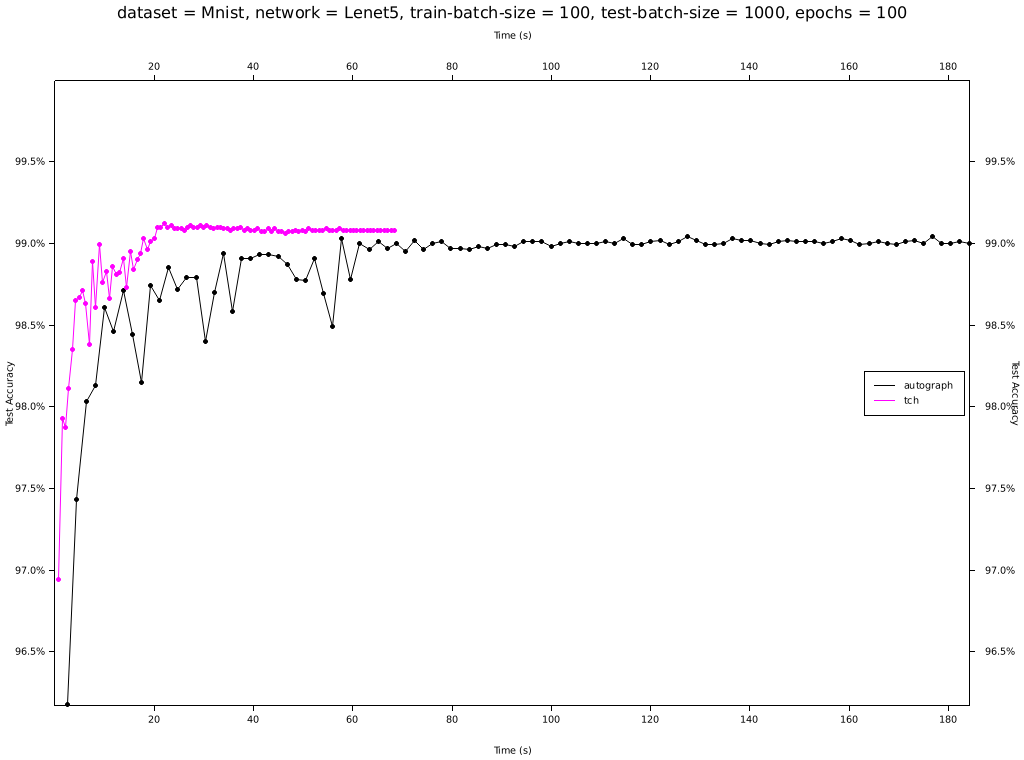
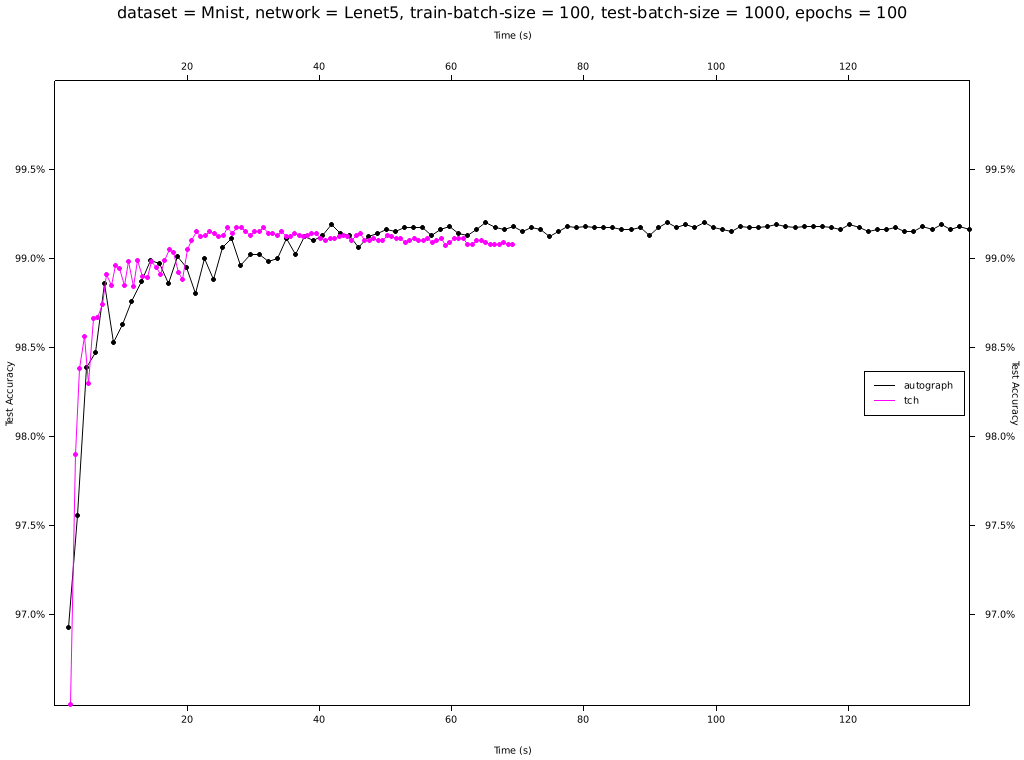
Updated benchmarks / readme.

diff --git a/README.md b/README.md
@@ -279,47 +279,53 @@ AUTOGRAPH_PROFILE=1 cargo +nightly run --feature profile
 ```
 Will create a file "autograph_profile_summary.txt" like this:
 ```
-+---------------------------------+------------------------------------+---------+-------------+-----------+------------+
-| Module                          | Entry                              | Time %  | Invocations | Mean Time | Total Time |
-+=================================+====================================+=========+=============+===========+============+
-| gemm_f32                        | main                               | 84.75 % | 61103787    | 145.00ns  | 8.94s      |
-+---------------------------------+------------------------------------+---------+-------------+-----------+------------+
-| core                            | kernel::im2col_2d_convolution_f32  | 8.39 %  | 1306434     | 677.00ns  | 885.21ms   |
-+---------------------------------+------------------------------------+---------+-------------+-----------+------------+
-| core                            | pool::max_pool_2d_backward_f32     | 3.58 %  | 2134342     | 176.00ns  | 377.61ms   |
-+---------------------------------+------------------------------------+---------+-------------+-----------+------------+
-| core                            | reorder::as_standard_layout_6d_u32 | 0.97 %  | 717356446   | 0.00ns    | 102.39ms   |
-+---------------------------------+------------------------------------+---------+-------------+-----------+------------+
-| core                            | fill::fill_u32                     | 0.69 %  | 1141592100  | 0.00ns    | 73.20ms    |
-+---------------------------------+------------------------------------+---------+-------------+-----------+------------+
-| reduce_sum_final_f32            | main                               | 0.32 %  | 50226       | 661.00ns  | 33.25ms    |
-+---------------------------------+------------------------------------+---------+-------------+-----------+------------+
-| core                            | pool::max_pool_indices_2d_f32      | 0.31 %  | 10233126    | 3.00ns    | 33.04ms    |
-+---------------------------------+------------------------------------+---------+-------------+-----------+------------+
-| core                            | activation::relu_backward_f32      | 0.31 %  | 351834488   | 0.00ns    | 32.89ms    |
-+---------------------------------+------------------------------------+---------+-------------+-----------+------------+
-| core                            | activation::relu_f32               | 0.25 %  | 398674888   | 0.00ns    | 26.86ms    |
-+---------------------------------+------------------------------------+---------+-------------+-----------+------------+
-| scaled_add_f32                  | main                               | 0.14 %  | 33371028    | 0.00ns    | 14.45ms    |
-+---------------------------------+------------------------------------+---------+-------------+-----------+------------+
-| cross_entropy_loss_f32_64       | main                               | 0.06 %  | 107890      | 60.00ns   | 6.53ms     |
-+---------------------------------+------------------------------------+---------+-------------+-----------+------------+
-| bias_backward_f32               | main                               | 0.05 %  | 49566       | 111.00ns  | 5.53ms     |
-+---------------------------------+------------------------------------+---------+-------------+-----------+------------+
-| core                            | cast::scale_u8_f32                 | 0.05 %  | 16717490    | 0.00ns    | 5.50ms     |
-+---------------------------------+------------------------------------+---------+-------------+-----------+------------+
-| core                            | pool::max_pool_2d_f32              | 0.04 %  | 1360260     | 3.00ns    | 4.25ms     |
-+---------------------------------+------------------------------------+---------+-------------+-----------+------------+
-| reduce_argmax_final_f32         | main                               | 0.03 %  | 107890      | 24.00ns   | 2.66ms     |
-+---------------------------------+------------------------------------+---------+-------------+-----------+------------+
-| one_hot_u8_f32                  | main                               | 0.02 %  | 107890      | 22.00ns   | 2.39ms     |
-+---------------------------------+------------------------------------+---------+-------------+-----------+------------+
-| accuracy_u8                     | main                               | 0.02 %  | 107890      | 19.00ns   | 2.10ms     |
-+---------------------------------+------------------------------------+---------+-------------+-----------+------------+
-| cross_entropy_loss_backward_f32 | main                               | 0.02 %  | 97630       | 18.00ns   | 1.78ms     |
-+---------------------------------+------------------------------------+---------+-------------+-----------+------------+
-| scaled_cast_f32_f32             | main                               | 0.00 %  | 132         | 31.00ns   | 4.10µs     |
-+---------------------------------+------------------------------------+---------+-------------+-----------+------------+
++-------------------------+----------------------------------------------+---------+-------------+-----------+------------+
+| Module                  | Entry                                        | Time %  | Invocations | Mean Time | Total Time |
++=========================+==============================================+=========+=============+===========+============+
+| core                    | linalg::gemm_f32_splitk256_unr16_mica1_micb1 | 22.19 % | 150485504   | 1.00ns    | 272.77ms   |
++-------------------------+----------------------------------------------+---------+-------------+-----------+------------+
+| core                    | linalg::gemm_f32_unr16_mica1_micb1           | 18.87 % | 768897792   | 0.00ns    | 231.94ms   |
++-------------------------+----------------------------------------------+---------+-------------+-----------+------------+
+| core                    | kernel::im2col_2d_convolution_f32            | 17.24 % | 143104000   | 1.00ns    | 211.92ms   |
++-------------------------+----------------------------------------------+---------+-------------+-----------+------------+
+| core                    | linalg::gemm_f32_unr8_mica4_micb4            | 15.11 % | 55810560    | 3.00ns    | 185.71ms   |
++-------------------------+----------------------------------------------+---------+-------------+-----------+------------+
+| core                    | kernel::col2im_2d_convolution_f32            | 5.24 %  | 48941568    | 1.00ns    | 64.35ms    |
++-------------------------+----------------------------------------------+---------+-------------+-----------+------------+
+| core                    | reorder::as_standard_layout_4d_u32           | 4.17 %  | 500518400   | 0.00ns    | 51.23ms    |
++-------------------------+----------------------------------------------+---------+-------------+-----------+------------+
+| core                    | fill::fill_u32x2                             | 3.83 %  | 550491136   | 0.00ns    | 47.05ms    |
++-------------------------+----------------------------------------------+---------+-------------+-----------+------------+
+| core                    | pool::max_pool_indices_2d_f32                | 2.35 %  | 121638400   | 0.00ns    | 28.94ms    |
++-------------------------+----------------------------------------------+---------+-------------+-----------+------------+
+| core                    | activation::relu_backward_f32                | 2.35 %  | 261534720   | 0.00ns    | 28.87ms    |
++-------------------------+----------------------------------------------+---------+-------------+-----------+------------+
+| core                    | pool::max_pool_2d_backward_f32               | 1.95 %  | 314828800   | 0.00ns    | 23.99ms    |
++-------------------------+----------------------------------------------+---------+-------------+-----------+------------+
+| reduce_sum_final_f32    | main                                         | 1.92 %  | 35776       | 661.00ns  | 23.65ms    |
++-------------------------+----------------------------------------------+---------+-------------+-----------+------------+
+| core                    | activation::relu_f32                         | 1.37 %  | 261880320   | 0.00ns    | 16.87ms    |
++-------------------------+----------------------------------------------+---------+-------------+-----------+------------+
+| scaled_add_f32          | main                                         | 0.88 %  | 24819840    | 0.00ns    | 10.87ms    |
++-------------------------+----------------------------------------------+---------+-------------+-----------+------------+
+| core                    | criterion::cross_entropy_loss_backward_f32   | 0.52 %  | 71552       | 88.00ns   | 6.33ms     |
++-------------------------+----------------------------------------------+---------+-------------+-----------+------------+
+| core                    | cast::scale_u8_f32                           | 0.45 %  | 43825600    | 0.00ns    | 5.50ms     |
++-------------------------+----------------------------------------------+---------+-------------+-----------+------------+
+| core                    | criterion::cross_entropy_loss_f32            | 0.40 %  | 71552       | 68.00ns   | 4.94ms     |
++-------------------------+----------------------------------------------+---------+-------------+-----------+------------+
+| bias_backward_f32       | main                                         | 0.35 %  | 35776       | 120.00ns  | 4.32ms     |
++-------------------------+----------------------------------------------+---------+-------------+-----------+------------+
+| core                    | linalg::c_beta_f32                           | 0.24 %  | 1466624     | 2.00ns    | 2.94ms     |
++-------------------------+----------------------------------------------+---------+-------------+-----------+------------+
+| reduce_argmax_final_f32 | main                                         | 0.17 %  | 71552       | 29.00ns   | 2.08ms     |
++-------------------------+----------------------------------------------+---------+-------------+-----------+------------+
+| one_hot_u8_f32          | main                                         | 0.15 %  | 71552       | 25.00ns   | 1.81ms     |
++-------------------------+----------------------------------------------+---------+-------------+-----------+------------+
+| core                    | fill::fill_u32                               | 0.13 %  | 143360      | 10.00ns   | 1.57ms     |
++-------------------------+----------------------------------------------+---------+-------------+-----------+------------+
+| accuracy_u8             | main                                         | 0.12 %  | 71552       | 20.00ns   | 1.44ms     |
++-------------------------+----------------------------------------------+---------+-------------+-----------+------------+
 ```
 ### Note
 Specify the profile feature for autograph if it is a dependency as `autograph/profile`.

diff --git a/benchmarks/neural-network/README.md b/benchmarks/neural-network/README.md
@@ -31,9 +31,9 @@ NVIDIA GeForce GTX 1060 with Max-Q Design
 +-----------+------------+---------------+-----------------------+----------------------------------+
 | Library   | Best Epoch | Best Accuracy | Time To Best Accuracy | Mean Epoch Time to Best Accuracy |
 +===========+============+===============+=======================+==================================+
-| autograph | 69         | 99.04%        | 127.38s               | 1.85s                            |
+| autograph | 47         | 99.20%        | 65.18s                | 1.39s                            |
 +-----------+------------+---------------+-----------------------+----------------------------------+
-| tch       | 32         | 99.12%        | 22.03s                | 688.31ms                         |
+| tch       | 36         | 99.17%        | 26.12s                | 725.69ms                         |
 +-----------+------------+---------------+-----------------------+----------------------------------+
 ```
 
